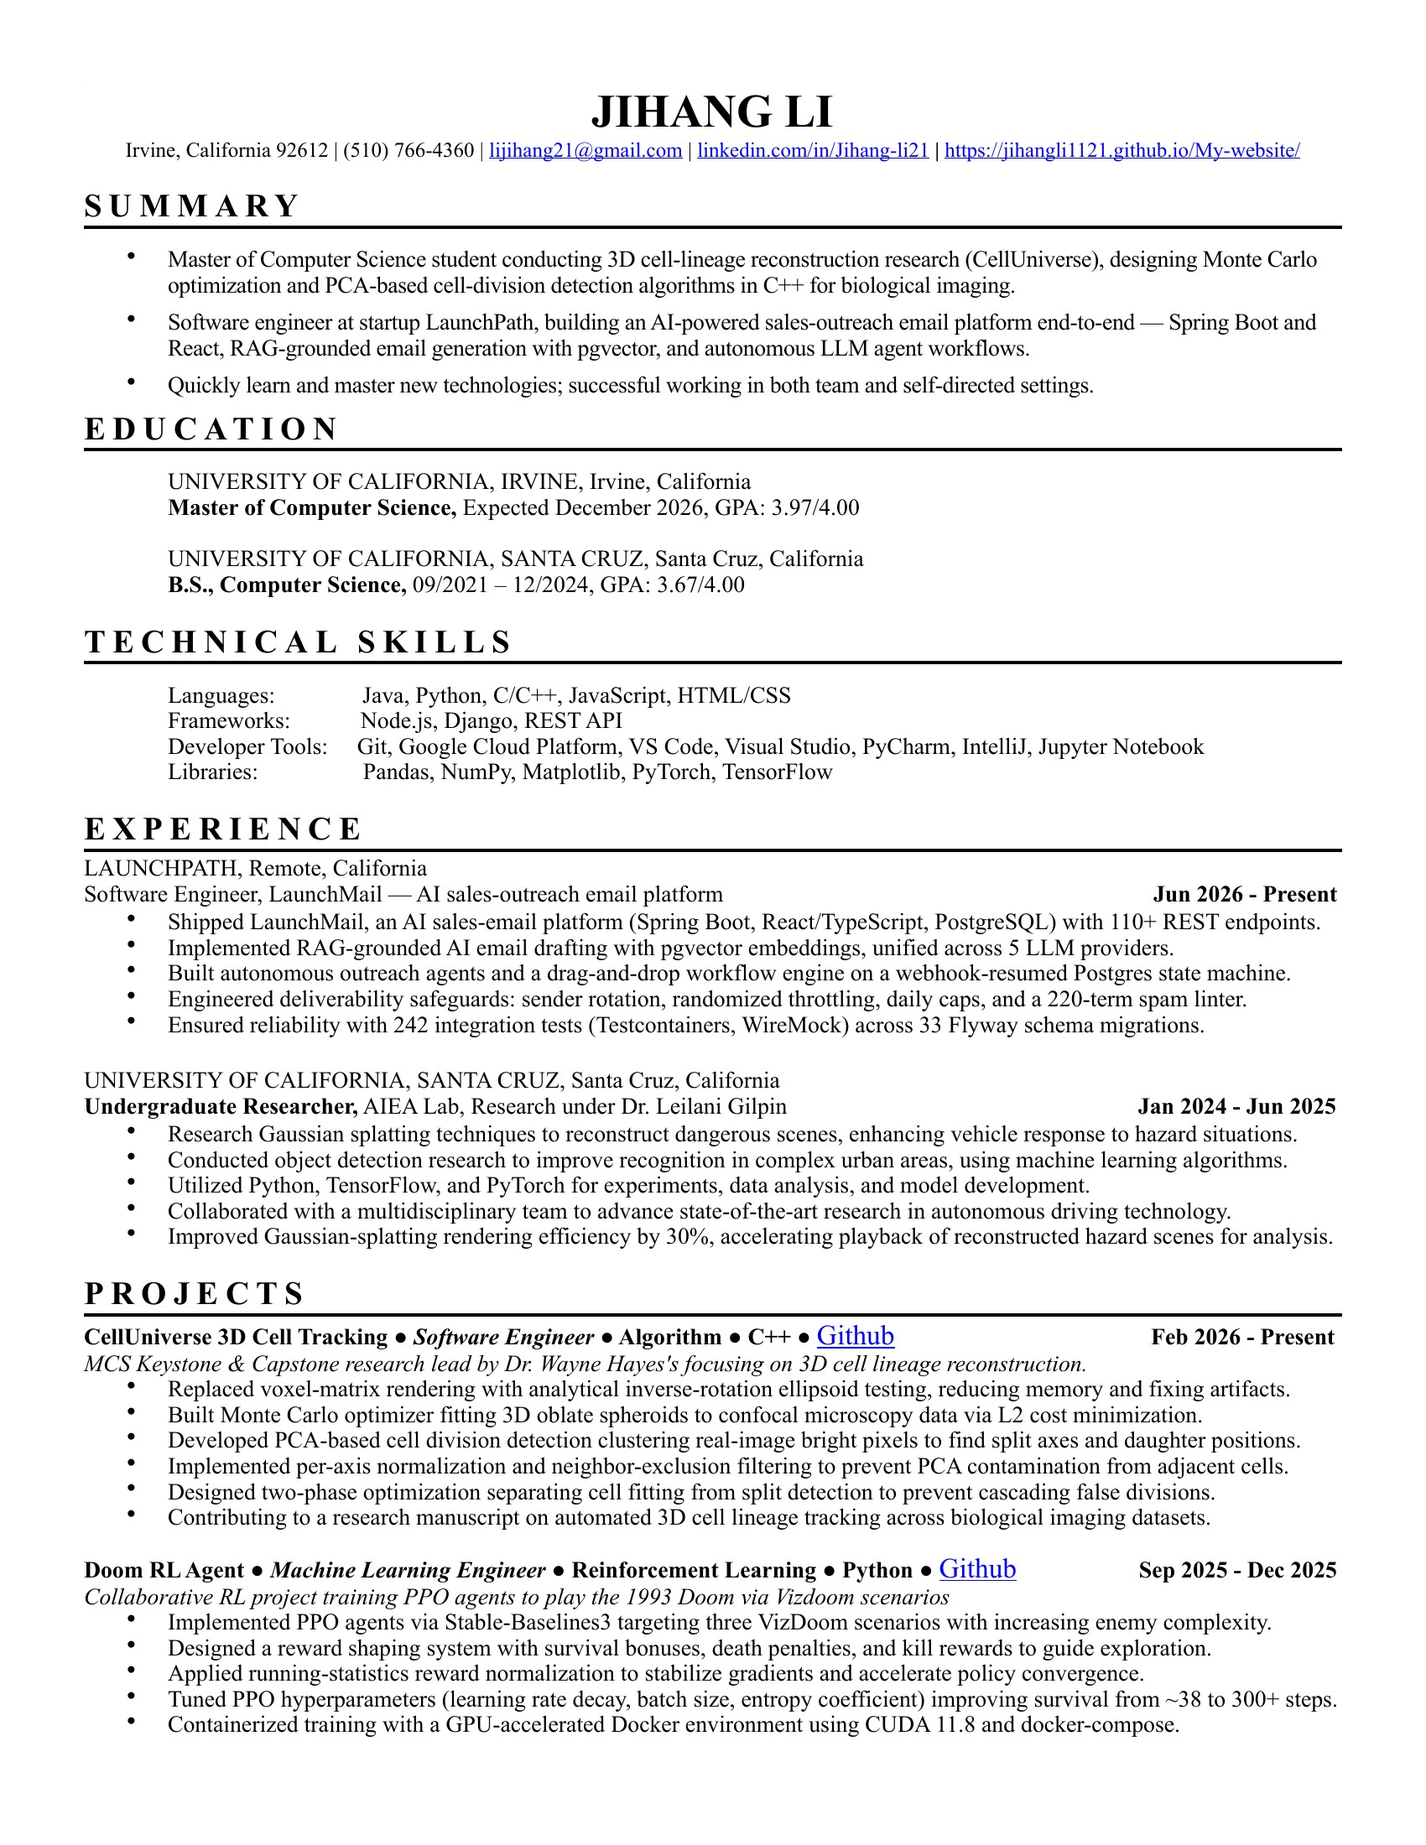
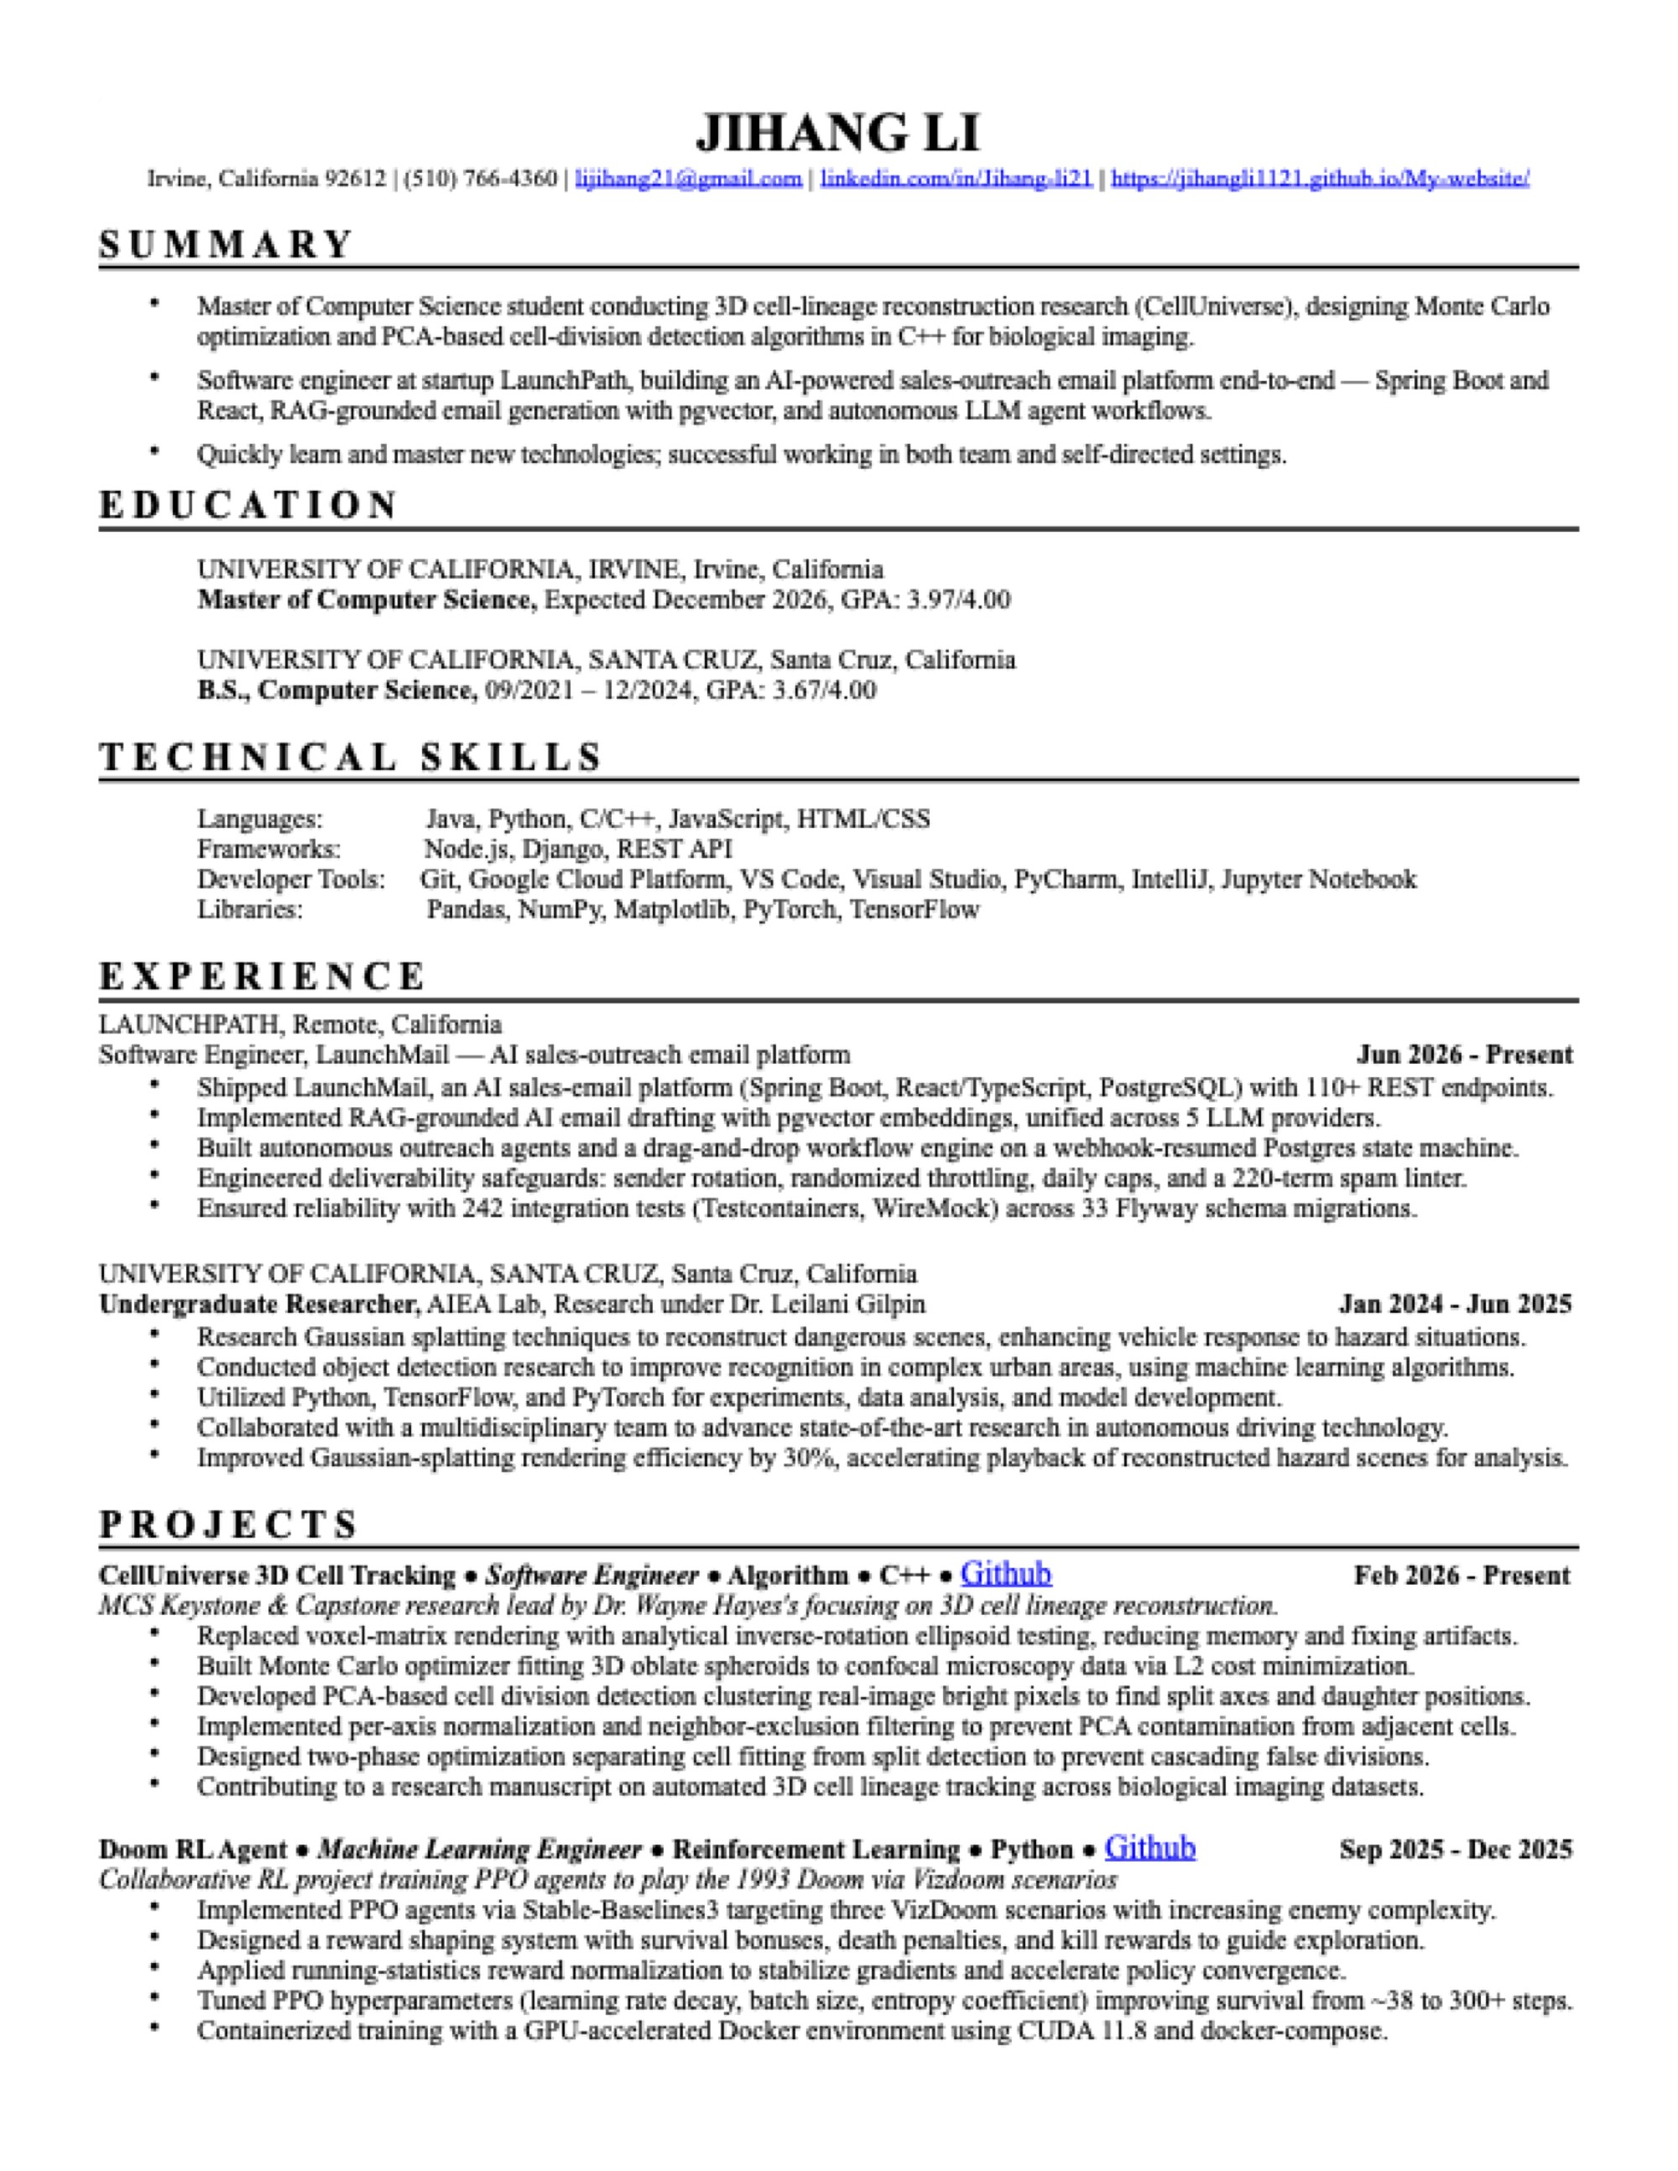
Link the résumé at one fixed path so renaming the export cannot break it
The file has now been renamed twice, and each time both the download link and
the workflow's path filter pointed at a name that no longer existed. The repo
keeps it as resume.pdf from here; the download button still hands the visitor
a sensibly named Jihang_Li_Resume.pdf via the download attribute.

The workflow now normalises as well as renders: push any PDF whose name
contains "resume" and it is moved to resume.pdf, the preview is re-rendered
from it, and both are committed. So updating the résumé is drop the file in,
push, done — whatever it happens to be called.

Changed region(s): [[0.0624, 0.0309, 0.9353, 0.9582]]

diff --git a/resume.html b/resume.html
@@ -86,8 +86,8 @@ body{margin:0;min-height:100vh;background:var(--ground);color:var(--text);
   <span class="bar__id">Jihang Li · <b>Résumé 2026</b></span>
   <a class="btn" href="./">&larr; Back to the site</a>
   <span class="spacer"></span>
-  <a class="btn" href="Jihang_resume_2026.pdf" target="_blank" rel="noopener">Open in new tab</a>
-  <a class="btn btn--solid" href="Jihang_resume_2026.pdf" download="Jihang_Li_resume_2026.pdf">
+  <a class="btn" href="resume.pdf" target="_blank" rel="noopener">Open in new tab</a>
+  <a class="btn btn--solid" href="resume.pdf" download="Jihang_Li_Resume.pdf">
     Download PDF
     <svg width="13" height="13" viewBox="0 0 14 14" fill="none" stroke="currentColor"
          stroke-width="1.5" aria-hidden="true"><path d="M7 1.5v8M3.5 6.5 7 10l3.5-3.5M2 12h10"/></svg>
@@ -101,7 +101,7 @@ body{margin:0;min-height:100vh;background:var(--ground);color:var(--text);
          navigator.pdfViewerEnabled === true, so there is no reliable way to
          detect the failure and fall back. This image is the PDF itself,
          rendered at 2000px; the buttons above open and download the real file. -->
-    <a class="page" href="Jihang_resume_2026.pdf" target="_blank" rel="noopener"
+    <a class="page" href="resume.pdf" target="_blank" rel="noopener"
        aria-label="Open the résumé PDF">
       <img src="assets/media/resume-preview.jpg"
            alt="Résumé of Jihang Li — Summary, Education, Technical Skills, Experience and Projects">

diff --git a/index.html b/index.html
@@ -3803,7 +3803,7 @@ kbd {
     items.push({ kind: "Action", label: "Résumé — read it",
                  run: function () { location.href = "resume.html"; } });
     items.push({ kind: "Action", label: "Résumé — download the PDF",
-                 run: function () { location.href = "Jihang_resume_2026.pdf"; } });
+                 run: function () { location.href = "resume.pdf"; } });
     items.push({ kind: "Action", label: "Email Jihang",
                  run: function () { location.href = "mailto:lijihang21@gmail.com"; } });
     items.push({ kind: "Action", label: "Source of this page on GitHub",
